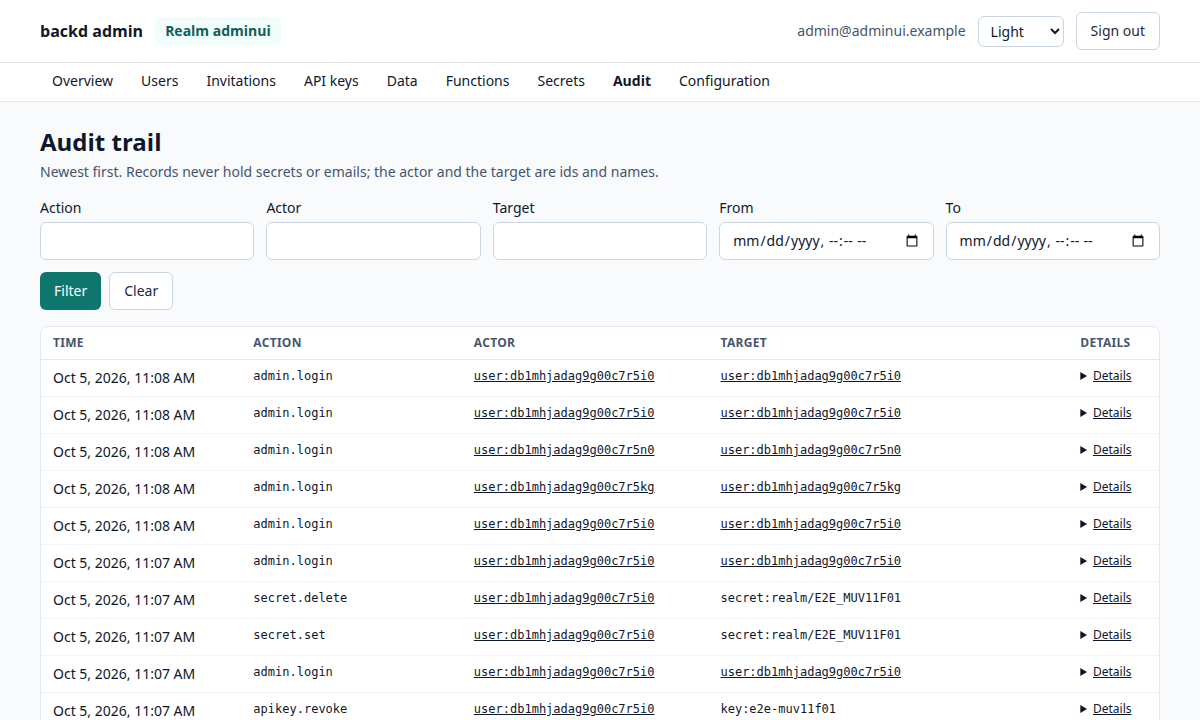
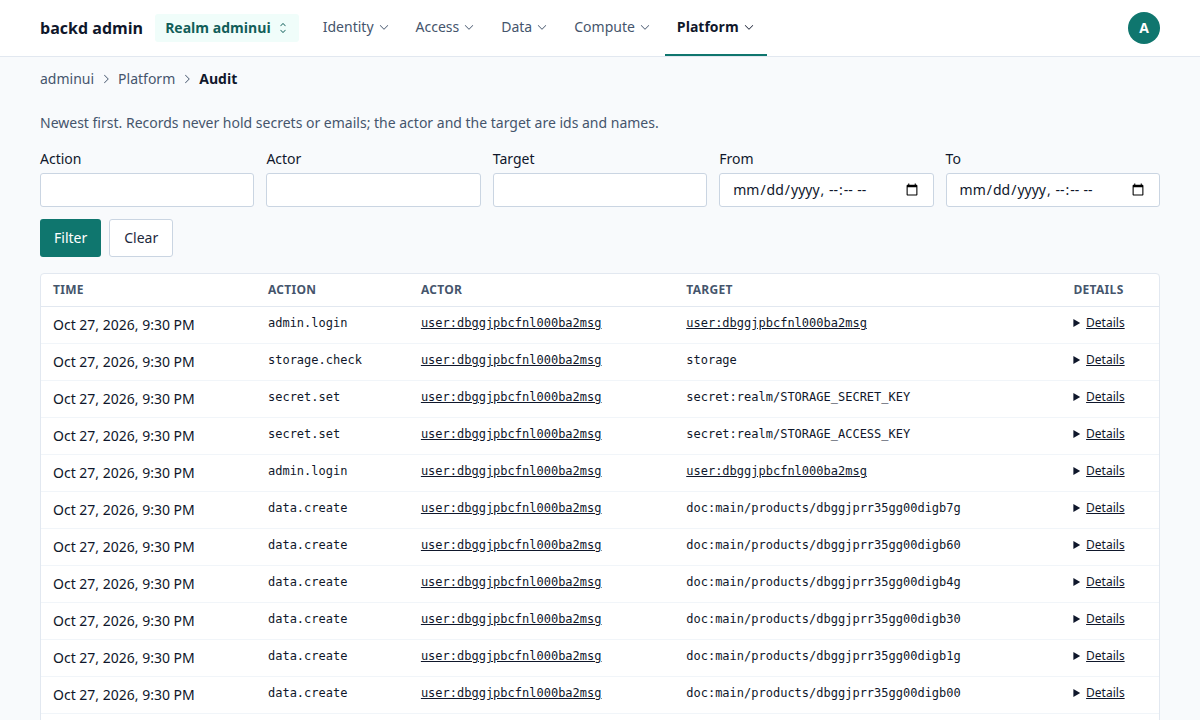
Docs: the new admin UI
The Admin UI page describes the five menus, the breadcrumb, the account
and realm menus and the narrow screen, and its screenshots are taken
again, with a new one of an open menu.

Closes #711

diff --git a/ui/admin/e2e/screenshots.spec.ts b/ui/admin/e2e/screenshots.spec.ts
@@ -31,6 +31,11 @@ test('screenshots of the main views', async ({ page, signIn }) => {
     await page.screenshot({ path: out(name) })
   }
   await shoot('users', 'users-table', 'users')
+  // A menu open, with the breadcrumb under the bar.
+  await page.getByTestId('nav-group-compute').click()
+  await expect(page.getByRole('link', { name: 'Jobs and history' })).toBeVisible()
+  await page.screenshot({ path: out('menu') })
+  await page.keyboard.press('Escape')
   await shoot('orgs', 'orgs-table', 'orgs')
   await shoot('apikeys', 'apikeys-table', 'apikeys')
   await shoot('audit', 'audit-table', 'audit')

diff --git a/docs/content/docs/operate/administration/admin-ui.md b/docs/content/docs/operate/administration/admin-ui.md
@@ -31,7 +31,7 @@ The UI needs the admin API on the same instance: `BACKD_ADMIN_UI=true` with `BAC
 
 ## Who sees what
 
-{{< screenshot src="admin-ui/overview.png" alt="The overview of a full administrator: the realm in the header, the level, and the areas the account may read and change" >}}
+{{< screenshot src="admin-ui/overview.png" alt="The overview of a full administrator: the realm in the bar, the breadcrumb, the level, and the areas the account may read and change" >}}
 
 Signing in needs a user with one of the realm's [admin roles](../admin/#admin-rights); a user without one is refused, and their session is ended at once. After sign-in the UI asks the server what the account may do (`GET /_admin/whoami`) and shows only that: a read-only administrator sees no buttons that change anything, and `admin.read_access` decides whether they see users and data. The server enforces every permission anyway; the interface only avoids offering what would be refused.
 
@@ -39,7 +39,23 @@ The overview page lists the level (full, read-only or custom) and the areas the 
 
 ## Navigation
 
-The pages are in five menus along the top: **Identity** (Overview, Users, Organizations, Invitations), **Access** (API keys, Secrets), **Data** (Data, Storage), **Compute** (Functions, Push, Jobs and history) and **Platform** (Audit, Configuration). A menu opens with a click or with Enter on its button, shows what each page is for, and closes with Escape; the page you are on is marked. The menus show only the pages the account may read: a group with nothing to show is not there, and neither are Organizations, Storage or Push in a realm that has not switched them on. Under the bar, a **breadcrumb** shows where you are, from the realm to the page (for example Data › Data › main › notes › a document); every part that has a page of its own leads there, and the tab of the browser carries the name of the page. On the right, the **account menu** (the button with your initial) shows who is signed in, the language and theme choices and **Sign out**; the realm's name at the left opens a small menu that leads to the page where another realm is chosen (an administrator works in one realm at a time, so it does not switch without signing in). On a narrow screen the groups and the account controls stack under one menu button.
+{{< screenshot src="admin-ui/menu.png" alt="The bar with the Compute menu open: Functions, Push, and Jobs and history, each with a line saying what it is for; the breadcrumb below the bar" >}}
+
+The pages are in five menus along the top:
+
+| Menu | Pages |
+|---|---|
+| **Identity** | Overview, Users, Organizations, Invitations |
+| **Access** | API keys, Secrets |
+| **Data** | Data (with the schema checks), Storage |
+| **Compute** | Functions, Push, Jobs and history |
+| **Platform** | Audit, Configuration |
+
+A menu opens with a click, or with Enter or Space on its button; it lists its pages with a line saying what each is for, puts the focus on the first, and closes with Escape or a click elsewhere. The page you are on is marked, and so is its menu. The menus show only the pages the account may read: a group with nothing to show is not there, and neither are Organizations, Storage or Push in a realm that has not switched them on.
+
+Under the bar, the **breadcrumb** shows where you are, from the realm to the page (for example `adminui › Data › main › notes › a document`). Every part that has a page of its own leads there; a database has none, so it is plain text. The tab of the browser carries the name of the page too.
+
+On the right, the **account menu** (the button with your initial) shows who is signed in, the language and theme choices and **Sign out**. The realm's name at the left opens a small menu that leads to the page where another realm is chosen: an administrator works in one realm at a time, so it does not switch without signing in. On a narrow screen the five menus and the account controls stack under one **Menu** button.
 
 ## Users and invitations
 
